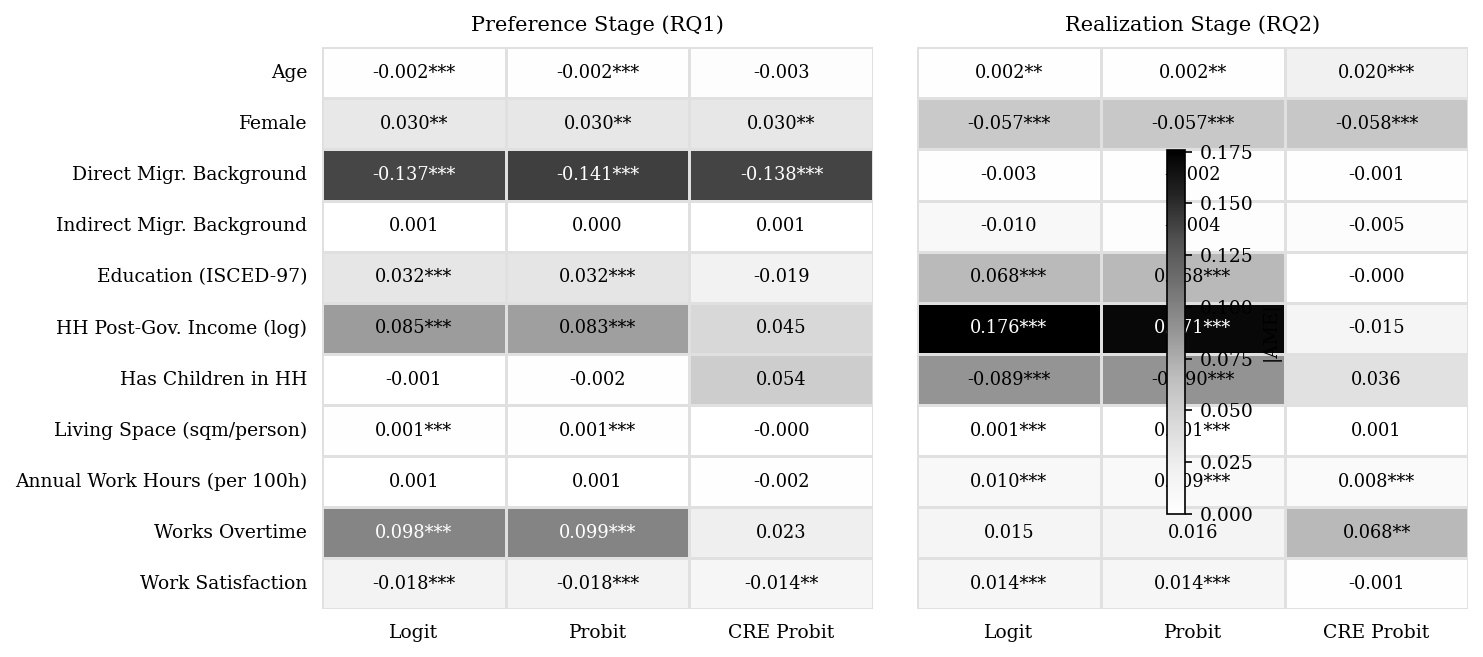
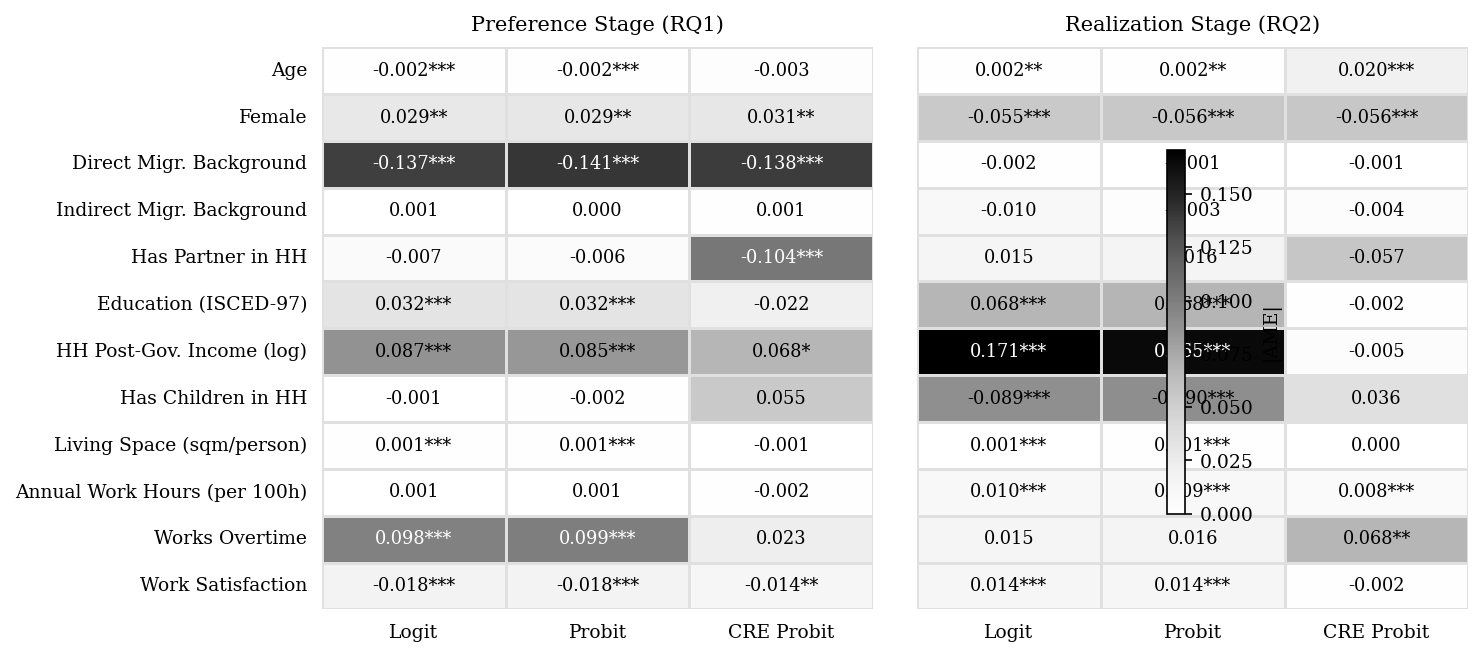
[chore] Cleaning up

diff --git a/src/scripts/panel_metadata.py b/src/scripts/panel_metadata.py
@@ -1,50 +1,46 @@
-"""Print panel metadata for the analysis sample (full-time employees, 2009-2014)."""
+"""Print panel metadata for the two analysis samples:
+1. Preference Stage (RQ1): determinant of willingness to WFH.
+2. Realization Stage (RQ2): determinants of actual WFH among those willing.
+"""
 
 import pandas as pd
 from src.data.utils import load_master
+from src.data.descriptives import build_analysis_sample, build_realization_sample
 
-df = load_master()
+def print_stats(name: str, df: pd.DataFrame, T: int):
+    N = df["pid"].nunique()
+    NT = len(df)
+    obs_per_person = df.groupby("pid").size()
+    
+    print(f"\n--- {name} ---")
+    print(f"  Total obs (NT)       : {NT:>8,}")
+    print(f"  Unique individuals N : {N:>8,}")
+    print(f"  Avg obs per person   : {NT/N:>8.2f}")
+    print(f"  Min obs per person   : {obs_per_person.min():>8}")
+    print(f"  Max obs per person   : {obs_per_person.max():>8}")
+    
+    wave_dist = obs_per_person.value_counts().sort_index()
+    print(f"  Wave participation:")
+    for n_waves, n_persons in wave_dist.items():
+        print(f"    {n_waves} wave(s): {n_persons:>5,} persons  ({n_persons/N*100:.1f}%)")
 
-# Analysis sample: valid WFH response only (mirrors binary_choice.py)
-analysis = df[df["plb0097"].isin([0, 1])].copy()
+    print(f"  Balanced ratio       : {NT/(N*T):.3f}")
 
-waves     = sorted(df["syear"].unique())
-T         = len(waves)
-N_raw     = df["pid"].nunique()
-NT_raw    = len(df)
-N_ana     = analysis["pid"].nunique()
-NT_ana    = len(analysis)
+def main():
+    raw = load_master()
+    rq1 = build_analysis_sample(raw)
+    rq2 = build_realization_sample(raw)
 
-obs_per_person = df.groupby("pid").size()
-obs_per_person_ana = analysis.groupby("pid").size()
+    waves = sorted(raw["syear"].unique())
+    T = len(waves)
 
-print("=" * 55)
-print("PANEL METADATA  (full-time employees, pgemplst == 1)")
-print("=" * 55)
+    print("=" * 60)
+    print("PANEL METADATA: ANALYSIS SUBSAMPLES (2009-2014)")
+    print("=" * 60)
+    print(f"Study period: {min(waves)}–{max(waves)} ({T} waves)")
 
-print(f"\nStudy period : {min(waves)}–{max(waves)}  ({T} waves)")
+    print_stats("Preference Stage (RQ1)", rq1, T)
+    print_stats("Realization Stage (RQ2)", rq2, T)
 
-print(f"\n--- Full master sample ---")
-print(f"  Total obs (NT)       : {NT_raw:>8,}")
-print(f"  Unique individuals N : {N_raw:>8,}")
-print(f"  Avg obs per person   : {NT_raw/N_raw:>8.2f}")
-print(f"  Min obs per person   : {obs_per_person.min():>8}")
-print(f"  Max obs per person   : {obs_per_person.max():>8}")
-print(f"  Obs per wave:")
-for yr, cnt in df["syear"].value_counts().sort_index().items():
-    share = cnt / NT_raw * 100
-    print(f"    {yr}: {cnt:>6,}  ({share:.1f}%)")
-
-print(f"\n--- Analysis sample (plb0097 ∈ {{0,1}}) ---")
-print(f"  Total obs (NT)       : {NT_ana:>8,}")
-print(f"  Unique individuals N : {N_ana:>8,}")
-print(f"  Avg obs per person   : {NT_ana/N_ana:>8.2f}")
-print(f"  Min obs per person   : {obs_per_person_ana.min():>8}")
-print(f"  Max obs per person   : {obs_per_person_ana.max():>8}")
-
-wave_dist = obs_per_person_ana.value_counts().sort_index()
-print(f"  Wave participation:")
-for n_waves, n_persons in wave_dist.items():
-    print(f"    {n_waves} wave(s): {n_persons:>5,} persons  ({n_persons/N_ana*100:.1f}%)")
-
-print(f"\n  Balanced if all had {T} obs: {N_ana * T:,}  (actual: {NT_ana:,}, ratio: {NT_ana/(N_ana*T):.3f})")
+if __name__ == "__main__":
+    main()

diff --git a/output/tables/preference_stage.tex b/output/tables/preference_stage.tex
@@ -1,7 +1,7 @@
 \begin{landscape}
 \begin{table}[htbp]
 \renewcommand{\arraystretch}{1.05}
-\footnotesize
+\scriptsize
 \centering
 \caption{Willingness to Work from Home: Pooled and Correlated Random Effects Models}
 \label{tab:preference_stage}
@@ -12,40 +12,42 @@
   & (1) & (2) & (3) & (4) & (5) & (6) \\
 \midrule
   \multicolumn{7}{@{}l}{\textbf{Demographic Characteristics}} \\
-    Age & $-0.0021^{***}$ & $-0.0019^{***}$ & $-0.0021^{***}$ & $-0.0019^{***}$ & $-0.0031$ & $-0.0030$ \\
-    \multicolumn{1}{l}{} & $(0.0007)$ & $(0.0007)$ & $(0.0006)$ & $(0.0007)$ & $(0.0034)$ & $(0.0034)$ \\
-    Female & $0.0300^{**}$ & $0.0287^{**}$ & $0.0304^{**}$ & $0.0292^{**}$ & $0.0304^{**}$ & $0.0293^{**}$ \\
-    \multicolumn{1}{l}{} & $(0.0134)$ & $(0.0138)$ & $(0.0134)$ & $(0.0138)$ & $(0.0135)$ & $(0.0139)$ \\
-    Direct Migr. Background & $-0.1374^{***}$ & $-0.1328^{***}$ & $-0.1414^{***}$ & $-0.1369^{***}$ & $-0.1383^{***}$ & $-0.1338^{***}$ \\
-    \multicolumn{1}{l}{} & $(0.0200)$ & $(0.0200)$ & $(0.0207)$ & $(0.0207)$ & $(0.0207)$ & $(0.0207)$ \\
-    Indirect Migr. Background & $0.0010$ & $0.0034$ & $0.0004$ & $0.0031$ & $0.0013$ & $0.0042$ \\
+    Age & $-0.0021^{***}$ & $-0.0019^{***}$ & $-0.0020^{***}$ & $-0.0019^{***}$ & $-0.0028$ & $-0.0027$ \\
+    \multicolumn{1}{l}{} & $(0.0007)$ & $(0.0007)$ & $(0.0007)$ & $(0.0007)$ & $(0.0034)$ & $(0.0034)$ \\
+    Female & $0.0288^{**}$ & $0.0277^{**}$ & $0.0294^{**}$ & $0.0286^{**}$ & $0.0305^{**}$ & $0.0298^{**}$ \\
+    \multicolumn{1}{l}{} & $(0.0135)$ & $(0.0138)$ & $(0.0135)$ & $(0.0138)$ & $(0.0135)$ & $(0.0139)$ \\
+    Direct Migr. Background & $-0.1371^{***}$ & $-0.1326^{***}$ & $-0.1412^{***}$ & $-0.1367^{***}$ & $-0.1383^{***}$ & $-0.1340^{***}$ \\
+    \multicolumn{1}{l}{} & $(0.0199)$ & $(0.0200)$ & $(0.0207)$ & $(0.0207)$ & $(0.0207)$ & $(0.0207)$ \\
+    Indirect Migr. Background & $0.0007$ & $0.0031$ & $0.0001$ & $0.0030$ & $0.0014$ & $0.0044$ \\
     \multicolumn{1}{l}{} & $(0.0318)$ & $(0.0314)$ & $(0.0318)$ & $(0.0314)$ & $(0.0318)$ & $(0.0314)$ \\
+    Has Partner in HH & $-0.0075$ & $-0.0057$ & $-0.0061$ & $-0.0040$ & $-0.1044^{***}$ & $-0.1037^{***}$ \\
+    \multicolumn{1}{l}{} & $(0.0146)$ & $(0.0146)$ & $(0.0146)$ & $(0.0145)$ & $(0.0391)$ & $(0.0391)$ \\
   \addlinespace[2pt]
   \multicolumn{7}{@{}l}{\textbf{Socioeconomic Determinants}} \\
-    Education (ISCED-97) & $0.0322^{***}$ & $0.0283^{***}$ & $0.0325^{***}$ & $0.0287^{***}$ & $-0.0194$ & $-0.0184$ \\
-    \multicolumn{1}{l}{} & $(0.0045)$ & $(0.0047)$ & $(0.0045)$ & $(0.0047)$ & $(0.0323)$ & $(0.0331)$ \\
-    HH Post-Gov. Income$^\dagger$ & $0.0848^{***}$ & $0.0786^{***}$ & $0.0831^{***}$ & $0.0767^{***}$ & $0.0452$ & $0.0438$ \\
-    \multicolumn{1}{l}{} & $(0.0137)$ & $(0.0139)$ & $(0.0135)$ & $(0.0137)$ & $(0.0395)$ & $(0.0396)$ \\
-    Has Children in HH & $-0.0007$ & $0.0066$ & $-0.0020$ & $0.0051$ & $0.0535$ & $0.0570$ \\
-    \multicolumn{1}{l}{} & $(0.0143)$ & $(0.0144)$ & $(0.0142)$ & $(0.0144)$ & $(0.0398)$ & $(0.0400)$ \\
-    Living Space (sqm/person) & $0.0015^{***}$ & $0.0015^{***}$ & $0.0014^{***}$ & $0.0014^{***}$ & $-0.0004$ & $-0.0003$ \\
-    \multicolumn{1}{l}{} & $(0.0004)$ & $(0.0004)$ & $(0.0003)$ & $(0.0004)$ & $(0.0009)$ & $(0.0009)$ \\
+    Education (ISCED-97) & $0.0322^{***}$ & $0.0283^{***}$ & $0.0325^{***}$ & $0.0287^{***}$ & $-0.0219$ & $-0.0205$ \\
+    \multicolumn{1}{l}{} & $(0.0045)$ & $(0.0047)$ & $(0.0045)$ & $(0.0047)$ & $(0.0326)$ & $(0.0334)$ \\
+    HH Post-Gov. Income$^\dagger$ & $0.0875^{***}$ & $0.0807^{***}$ & $0.0852^{***}$ & $0.0782^{***}$ & $0.0676^{*}$ & $0.0667^{*}$ \\
+    \multicolumn{1}{l}{} & $(0.0147)$ & $(0.0148)$ & $(0.0144)$ & $(0.0146)$ & $(0.0402)$ & $(0.0403)$ \\
+    Has Children in HH & $-0.0005$ & $0.0067$ & $-0.0018$ & $0.0052$ & $0.0547$ & $0.0586$ \\
+    \multicolumn{1}{l}{} & $(0.0143)$ & $(0.0144)$ & $(0.0142)$ & $(0.0144)$ & $(0.0397)$ & $(0.0399)$ \\
+    Living Space (sqm/person) & $0.0015^{***}$ & $0.0014^{***}$ & $0.0014^{***}$ & $0.0013^{***}$ & $-0.0009$ & $-0.0008$ \\
+    \multicolumn{1}{l}{} & $(0.0004)$ & $(0.0004)$ & $(0.0004)$ & $(0.0004)$ & $(0.0009)$ & $(0.0009)$ \\
   \addlinespace[2pt]
   \multicolumn{7}{@{}l}{\textbf{Labour Determinants}} \\
     Annual Work Hours (per 100h) & $0.0008$ & $0.0011$ & $0.0009$ & $0.0012$ & $-0.0016$ & $-0.0017$ \\
-    \multicolumn{1}{l}{} & $(0.0011)$ & $(0.0011)$ & $(0.0011)$ & $(0.0011)$ & $(0.0021)$ & $(0.0020)$ \\
-    Works Overtime & $0.0983^{***}$ & $0.1029^{***}$ & $0.0994^{***}$ & $0.1039^{***}$ & $0.0232$ & $0.0262$ \\
-    \multicolumn{1}{l}{} & $(0.0138)$ & $(0.0138)$ & $(0.0142)$ & $(0.0142)$ & $(0.0248)$ & $(0.0247)$ \\
-    Work Satisfaction & $-0.0177^{***}$ & $-0.0175^{***}$ & $-0.0177^{***}$ & $-0.0176^{***}$ & $-0.0136^{**}$ & $-0.0134^{**}$ \\
+    \multicolumn{1}{l}{} & $(0.0011)$ & $(0.0011)$ & $(0.0011)$ & $(0.0011)$ & $(0.0020)$ & $(0.0020)$ \\
+    Works Overtime & $0.0982^{***}$ & $0.1028^{***}$ & $0.0993^{***}$ & $0.1039^{***}$ & $0.0231$ & $0.0260$ \\
+    \multicolumn{1}{l}{} & $(0.0138)$ & $(0.0138)$ & $(0.0142)$ & $(0.0142)$ & $(0.0247)$ & $(0.0246)$ \\
+    Work Satisfaction & $-0.0177^{***}$ & $-0.0175^{***}$ & $-0.0177^{***}$ & $-0.0176^{***}$ & $-0.0139^{**}$ & $-0.0137^{**}$ \\
     \multicolumn{1}{l}{} & $(0.0029)$ & $(0.0029)$ & $(0.0029)$ & $(0.0029)$ & $(0.0055)$ & $(0.0055)$ \\
   \addlinespace[2pt]
   \midrule
   Sector FE & No & Yes & No & Yes & No & Yes \\
   \midrule
   $N$ (all models) & 7,539 &  &  &  &  &  \\
-  McFadden $R^2$ & 0.0457 & 0.0541 & 0.0453 & 0.0538 & 0.0470 & 0.0554 \\
-  Log-Likelihood & -4611.0 & -4570.3 & -4613.0 & -4572.2 & -4604.8 & -4564.1 \\
-  Mundlak means ($p$) & --- & --- & --- & --- & $0.001$ & $0.001$ \\
+  McFadden $R^2$ & 0.0458 & 0.0542 & 0.0453 & 0.0538 & 0.0474 & 0.0559 \\
+  Log-Likelihood & -4610.8 & -4570.2 & -4612.9 & -4572.1 & -4602.8 & -4562.0 \\
+  Mundlak means ($p$) & --- & --- & --- & --- & $< 0.001$ & $< 0.001$ \\
   \bottomrule
   \vspace{1.5pt}
 \end{tabular*}

diff --git a/output/tables/realization_stage.tex b/output/tables/realization_stage.tex
@@ -1,7 +1,7 @@
 \begin{landscape}
 \begin{table}[htbp]
 \renewcommand{\arraystretch}{1.05}
-\footnotesize
+\scriptsize
 \centering
 \caption{Realization of WFH Preferences: Access and Utilization among Willing Workers}
 \label{tab:realization_stage}
@@ -12,40 +12,42 @@
   & (1) & (2) & (3) & (4) & (5) & (6) \\
 \midrule
   \multicolumn{7}{@{}l}{\textbf{Demographic Characteristics}} \\
-    Age & $0.0017^{**}$ & $0.0014^{**}$ & $0.0016^{**}$ & $0.0014^{*}$ & $0.0204^{***}$ & $0.0212^{***}$ \\
-    \multicolumn{1}{l}{} & $(0.0007)$ & $(0.0007)$ & $(0.0007)$ & $(0.0007)$ & $(0.0040)$ & $(0.0040)$ \\
-    Female & $-0.0566^{***}$ & $-0.0694^{***}$ & $-0.0574^{***}$ & $-0.0684^{***}$ & $-0.0581^{***}$ & $-0.0689^{***}$ \\
-    \multicolumn{1}{l}{} & $(0.0154)$ & $(0.0151)$ & $(0.0153)$ & $(0.0150)$ & $(0.0154)$ & $(0.0151)$ \\
-    Direct Migr. Background & $-0.0027$ & $0.0011$ & $-0.0016$ & $0.0004$ & $-0.0015$ & $-0.0001$ \\
-    \multicolumn{1}{l}{} & $(0.0268)$ & $(0.0251)$ & $(0.0272)$ & $(0.0255)$ & $(0.0273)$ & $(0.0256)$ \\
-    Indirect Migr. Background & $-0.0101$ & $-0.0084$ & $-0.0036$ & $-0.0003$ & $-0.0045$ & $-0.0019$ \\
-    \multicolumn{1}{l}{} & $(0.0356)$ & $(0.0340)$ & $(0.0352)$ & $(0.0339)$ & $(0.0351)$ & $(0.0339)$ \\
+    Age & $0.0016^{**}$ & $0.0014^{*}$ & $0.0015^{**}$ & $0.0014^{*}$ & $0.0205^{***}$ & $0.0213^{***}$ \\
+    \multicolumn{1}{l}{} & $(0.0008)$ & $(0.0007)$ & $(0.0008)$ & $(0.0007)$ & $(0.0040)$ & $(0.0040)$ \\
+    Female & $-0.0552^{***}$ & $-0.0683^{***}$ & $-0.0556^{***}$ & $-0.0669^{***}$ & $-0.0561^{***}$ & $-0.0672^{***}$ \\
+    \multicolumn{1}{l}{} & $(0.0155)$ & $(0.0152)$ & $(0.0155)$ & $(0.0151)$ & $(0.0155)$ & $(0.0152)$ \\
+    Direct Migr. Background & $-0.0024$ & $0.0013$ & $-0.0011$ & $0.0007$ & $-0.0009$ & $0.0003$ \\
+    \multicolumn{1}{l}{} & $(0.0269)$ & $(0.0251)$ & $(0.0272)$ & $(0.0255)$ & $(0.0273)$ & $(0.0256)$ \\
+    Indirect Migr. Background & $-0.0096$ & $-0.0080$ & $-0.0032$ & $0.0000$ & $-0.0042$ & $-0.0016$ \\
+    \multicolumn{1}{l}{} & $(0.0356)$ & $(0.0341)$ & $(0.0352)$ & $(0.0340)$ & $(0.0351)$ & $(0.0340)$ \\
+    Has Partner in HH & $0.0146$ & $0.0113$ & $0.0162$ & $0.0133$ & $-0.0567$ & $-0.0564$ \\
+    \multicolumn{1}{l}{} & $(0.0166)$ & $(0.0158)$ & $(0.0166)$ & $(0.0158)$ & $(0.0500)$ & $(0.0494)$ \\
   \addlinespace[2pt]
   \multicolumn{7}{@{}l}{\textbf{Socioeconomic Determinants}} \\
-    Education (ISCED-97) & $0.0675^{***}$ & $0.0499^{***}$ & $0.0682^{***}$ & $0.0504^{***}$ & $-0.0003$ & $-0.0189$ \\
-    \multicolumn{1}{l}{} & $(0.0051)$ & $(0.0051)$ & $(0.0051)$ & $(0.0052)$ & $(0.0625)$ & $(0.0662)$ \\
-    HH Post-Gov. Income$^\dagger$ & $0.1758^{***}$ & $0.1872^{***}$ & $0.1706^{***}$ & $0.1831^{***}$ & $-0.0150$ & $-0.0092$ \\
-    \multicolumn{1}{l}{} & $(0.0163)$ & $(0.0157)$ & $(0.0161)$ & $(0.0157)$ & $(0.0565)$ & $(0.0541)$ \\
-    Has Children in HH & $-0.0891^{***}$ & $-0.0698^{***}$ & $-0.0897^{***}$ & $-0.0704^{***}$ & $0.0362$ & $0.0427$ \\
+    Education (ISCED-97) & $0.0676^{***}$ & $0.0500^{***}$ & $0.0683^{***}$ & $0.0505^{***}$ & $-0.0024$ & $-0.0204$ \\
+    \multicolumn{1}{l}{} & $(0.0051)$ & $(0.0052)$ & $(0.0051)$ & $(0.0052)$ & $(0.0636)$ & $(0.0674)$ \\
+    HH Post-Gov. Income$^\dagger$ & $0.1706^{***}$ & $0.1832^{***}$ & $0.1648^{***}$ & $0.1783^{***}$ & $-0.0049$ & $0.0009$ \\
+    \multicolumn{1}{l}{} & $(0.0173)$ & $(0.0167)$ & $(0.0172)$ & $(0.0167)$ & $(0.0568)$ & $(0.0542)$ \\
+    Has Children in HH & $-0.0895^{***}$ & $-0.0701^{***}$ & $-0.0901^{***}$ & $-0.0708^{***}$ & $0.0362$ & $0.0429$ \\
     \multicolumn{1}{l}{} & $(0.0160)$ & $(0.0153)$ & $(0.0159)$ & $(0.0153)$ & $(0.0487)$ & $(0.0498)$ \\
-    Living Space (sqm/person) & $0.0013^{***}$ & $0.0015^{***}$ & $0.0013^{***}$ & $0.0015^{***}$ & $0.0006$ & $0.0007$ \\
+    Living Space (sqm/person) & $0.0013^{***}$ & $0.0015^{***}$ & $0.0014^{***}$ & $0.0016^{***}$ & $0.0003$ & $0.0005$ \\
     \multicolumn{1}{l}{} & $(0.0003)$ & $(0.0003)$ & $(0.0003)$ & $(0.0003)$ & $(0.0010)$ & $(0.0010)$ \\
   \addlinespace[2pt]
   \multicolumn{7}{@{}l}{\textbf{Labour Determinants}} \\
-    Annual Work Hours (per 100h) & $0.0099^{***}$ & $0.0088^{***}$ & $0.0093^{***}$ & $0.0084^{***}$ & $0.0076^{***}$ & $0.0071^{***}$ \\
+    Annual Work Hours (per 100h) & $0.0099^{***}$ & $0.0088^{***}$ & $0.0093^{***}$ & $0.0085^{***}$ & $0.0076^{***}$ & $0.0072^{***}$ \\
     \multicolumn{1}{l}{} & $(0.0014)$ & $(0.0013)$ & $(0.0014)$ & $(0.0013)$ & $(0.0027)$ & $(0.0027)$ \\
-    Works Overtime & $0.0150$ & $0.0251$ & $0.0161$ & $0.0248$ & $0.0680^{**}$ & $0.0752^{**}$ \\
+    Works Overtime & $0.0152$ & $0.0252$ & $0.0163$ & $0.0250$ & $0.0678^{**}$ & $0.0749^{**}$ \\
     \multicolumn{1}{l}{} & $(0.0192)$ & $(0.0185)$ & $(0.0192)$ & $(0.0185)$ & $(0.0312)$ & $(0.0331)$ \\
-    Work Satisfaction & $0.0138^{***}$ & $0.0120^{***}$ & $0.0135^{***}$ & $0.0118^{***}$ & $-0.0015$ & $-0.0006$ \\
+    Work Satisfaction & $0.0138^{***}$ & $0.0120^{***}$ & $0.0136^{***}$ & $0.0118^{***}$ & $-0.0018$ & $-0.0010$ \\
     \multicolumn{1}{l}{} & $(0.0035)$ & $(0.0033)$ & $(0.0034)$ & $(0.0033)$ & $(0.0062)$ & $(0.0062)$ \\
   \addlinespace[2pt]
   \midrule
   Sector FE & No & Yes & No & Yes & No & Yes \\
   \midrule
   $N$ (all models) & 4,975 &  &  &  &  &  \\
-  McFadden $R^2$ & 0.1297 & 0.1837 & 0.1284 & 0.1824 & 0.1324 & 0.1866 \\
-  Log-Likelihood & -2838.9 & -2662.9 & -2843.1 & -2667.2 & -2830.3 & -2653.5 \\
-  Mundlak means ($p$) & --- & --- & --- & --- & $0.000$ & $0.000$ \\
+  McFadden $R^2$ & 0.1298 & 0.1838 & 0.1286 & 0.1825 & 0.1327 & 0.1868 \\
+  Log-Likelihood & -2838.5 & -2662.6 & -2842.6 & -2666.9 & -2829.2 & -2652.6 \\
+  Mundlak means ($p$) & --- & --- & --- & --- & $< 0.001$ & $< 0.001$ \\
   \bottomrule
   \vspace{1.5pt}
 \end{tabular*}

diff --git a/output/tables/model_specifications.tex b/output/tables/model_specifications.tex
@@ -1,0 +1,29 @@
+\begin{table}[htbp]
+\renewcommand{\arraystretch}{1.3}
+\centering
+\caption{Summary of Model Specifications and Sampling Logic}
+\label{tab:model_specifications}
+\small
+\begin{tabular*}{\linewidth}{ @{\extracolsep{\fill}} @{}llcp{7.5cm}@{} }
+\toprule
+Model ID & Estimator & Sector FE & Functional Form (Latent Variable $y_{it}^*$) \\
+\midrule
+(1) & Logit  & No  & $\mathbf{x}_{it}^{\top}\beta + \epsilon_{it}$ \\
+(2) & Logit  & Yes & $\mathbf{x}_{it}^{\top}\beta + \gamma_s + \epsilon_{it}$ \\
+(3) & Probit & No  & $\mathbf{x}_{it}^{\top}\beta + \epsilon_{it}$ \\
+(4) & Probit & Yes & $\mathbf{x}_{it}^{\top}\beta + \gamma_s + \epsilon_{it}$ \\
+(5) & CRE Probit & No  & $\mathbf{x}_{it}^{\top}\beta + \bar{\mathbf{x}}_i^{\top}\pi + \epsilon_{it}$ \\
+(6) & CRE Probit & Yes & $\mathbf{x}_{it}^{\top}\beta + \bar{\mathbf{x}}_i^{\top}\pi + \gamma_s + \epsilon_{it}$ \\
+\midrule
+\multicolumn{4}{@{}l}{\textbf{Application to Research Questions}} \\
+\textbf{Stage 1 (RQ1)} & \multicolumn{3}{p{11.5cm}@{}}{Outcome: \textit{Preference} ($y_{it}=1$ if wants WFH). Sample: Full-time employees, excluding those reporting structural impossibility.} \\
+\textbf{Stage 2 (RQ2)} & \multicolumn{3}{p{11.5cm}@{}}{Outcome: \textit{Realization} ($y_{it}=1$ if actually WFH). Sample: Full-time employees who stated a positive preference in Stage 1 ($y_{it}^{RQ1}=1$).} \\
+\bottomrule
+\vspace{1.5pt}
+\end{tabular*}
+\smallskip
+\begin{minipage}{\linewidth}
+\small
+\textbf{Note:} $\mathbf{x}_{it}$ is the vector of all control variables. $\bar{\mathbf{x}}_i$ denotes individual time-means of time-varying variables (Mundlak correction), recomputed for each specific subsample. $\gamma_s$ represents sector fixed effects (NACE 1--15).
+\end{minipage}
+\end{table}

diff --git a/src/models/binary_choice_common.py b/src/models/binary_choice_common.py
@@ -13,7 +13,7 @@ import seaborn as sns
 from src.data.utils import load_master
 
 CONTROLS = [
-    "age", "sex", "migback_direct", "migback_indirect",
+    "age", "sex", "migback_direct", "migback_indirect", "has_partner",
     "pgisced97", "log_income", "has_children", "sqm_per_head",
     "work_hrs_100", "plb0193_h", "plh0173",
 ]
@@ -21,7 +21,7 @@ CONTROLS = [
 # Time-varying only — sex and migback are constant within person so X_{i·} = X_{it},
 # making them uninformative in the Mundlak auxiliary regression α_i = X_{i·}π + w_i.
 TIME_VARYING = [
-    "age", "pgisced97", "log_income", "has_children",
+    "age", "has_partner", "pgisced97", "log_income", "has_children",
     "sqm_per_head", "work_hrs_100", "plb0193_h", "plh0173",
 ]
 
@@ -31,6 +31,7 @@ LABELS: dict[str, str] = {
     "sex":                 "Female",
     "migback_direct":      "Direct Migr. Background",
     "migback_indirect":    "Indirect Migr. Background",
+    "has_partner":         "Has Partner in HH",
     "pgisced97":           "Education (ISCED-97)",
     "log_income":          r"HH Post-Gov. Income$^\dagger$",
     "has_children":        "Has Children in HH",
@@ -40,6 +41,7 @@ LABELS: dict[str, str] = {
     "plh0173":             "Work Satisfaction",
     # Mundlak means
     "age_mean":            r"$\bar{\text{Age}}$",
+    "has_partner_mean":    r"$\bar{\text{Partner Status}}$",
     "pgisced97_mean":      r"$\bar{\text{Education}}$",
     "log_income_mean":     r"$\overline{\text{HH Income}}^\dagger$",
     "has_children_mean":   r"$\bar{\text{Has Children}}$",
@@ -50,7 +52,7 @@ LABELS: dict[str, str] = {
 }
 
 GROUPS = [
-    ("Demographic Characteristics", ["age", "sex", "migback_direct", "migback_indirect"]),
+    ("Demographic Characteristics", ["age", "sex", "migback_direct", "migback_indirect", "has_partner"]),
     ("Socioeconomic Determinants",  ["pgisced97", "log_income", "has_children", "sqm_per_head"]),
     ("Labour Determinants",         ["work_hrs_100", "plb0193_h", "plh0173"]),
 ]
@@ -60,6 +62,7 @@ PLOT_LABELS = {
     "sex":              "Female",
     "migback_direct":   "Direct Migr. Background",
     "migback_indirect": "Indirect Migr. Background",
+    "has_partner":      "Has Partner in HH",
     "pgisced97":        "Education (ISCED-97)",
     "log_income":       "HH Post-Gov. Income (log)",
     "has_children":     "Has Children in HH",
@@ -78,6 +81,7 @@ def prep_raw() -> pd.DataFrame:
     df["log_income"]       = np.log(df["i11102"].clip(lower=1))
     df["migback_direct"]   = (df["migback"] == 2).where(df["migback"].notna()).astype("float")
     df["migback_indirect"] = (df["migback"] == 3).where(df["migback"].notna()).astype("float")
+    df["has_partner"]      = df["partner"].isin([1, 2, 3, 4]).astype("float").where(df["partner"].notna())
     df["sector"]           = df["sector"].astype("float")
     return df
 
@@ -152,6 +156,8 @@ def _mundlak_wald_p(res) -> str:
     for row_i, col_i in enumerate(idx):
         r[row_i, col_i] = 1.0
     p = float(res.wald_test(r, use_f=False, scalar=False).pvalue)
+    if p < 0.001:
+        return r"$< 0.001$"
     return f"${p:.3f}$"
 
 
@@ -173,7 +179,7 @@ def save_latex_table(models: list, path: str, caption: str, label: str) -> None:
         r"\begin{landscape}",
         r"\begin{table}[htbp]",
         r"\renewcommand{\arraystretch}{1.05}",
-        r"\footnotesize",
+        r"\scriptsize",
         r"\centering",
         rf"\caption{{{caption}}}",
         rf"\label{{{label}}}",

diff --git a/src/data/descriptives.py b/src/data/descriptives.py
@@ -87,7 +87,7 @@ def build_main_table(
         r"\centering",
         rf"\caption{{Descriptive Statistics: Preference and Realization Samples ({period_label})}}",
         r"\label{tab:descriptives_main}",
-        r"\footnotesize",
+        r"\scriptsize",
         rf"\begin{{tabular*}}{{\linewidth}}{{ @{{\extracolsep{{\fill}}}} {col_spec} @{{}} }}",
         r"\toprule",
         r" & & & \multicolumn{2}{c}{Preference Stage} & \multicolumn{2}{c}{Realization Stage} \\",
@@ -339,12 +339,15 @@ def _add_derived_cols(df):
     df["log_income"]       = np.log(df["i11102"].clip(lower=1))
     df["migback_direct"]   = (df["migback"] == 2).where(df["migback"].notna()).astype("float")
     df["migback_indirect"] = (df["migback"] == 3).where(df["migback"].notna()).astype("float")
+    # Partner in HH: values 1 (spouse/registered) and 2 (partner) are certain.
+    # 3 (probably spouse) and 4 (probably partner) are also included.
+    df["has_partner"]      = df["partner"].isin([1, 2, 3, 4]).astype("float").where(df["partner"].notna())
     return df
 
 
 _MODEL_COLS_BASE = [
     "pid", "syear",
-    "age", "sex", "migback_direct", "migback_indirect",
+    "age", "sex", "migback_direct", "migback_indirect", "has_partner",
     "pgisced97", "log_income", "has_children", "sqm_per_head",
     "work_hrs_100", "plb0193_h", "plh0173", "sector",
 ]

diff --git a/output/tables/descriptives_main.tex b/output/tables/descriptives_main.tex
@@ -4,7 +4,7 @@
 \centering
 \caption{Descriptive Statistics: Preference and Realization Samples (2009--2014)}
 \label{tab:descriptives_main}
-\footnotesize
+\scriptsize
 \begin{tabular*}{\linewidth}{ @{\extracolsep{\fill}} @{}l p{4.5cm} p{4.5cm} rrrr @{} }
 \toprule
  & & & \multicolumn{2}{c}{Preference Stage} & \multicolumn{2}{c}{Realization Stage} \\
@@ -22,6 +22,7 @@ Variable & Label & Definition/Scale & Mean & SD & Mean & SD \\
 \multicolumn{7}{@{}l}{\textbf{Demographic Characteristics}} \\
 \texttt{age} & Age & years & 42.83 & 9.74 & 42.89 & 9.69 \\
 \texttt{sex} & Gender & 1=M, 2=F & 0:66\% / 1:34\% & -- & 0:65\% / 1:35\% & -- \\
+\texttt{partner} & Status Of Partnership & 1--5 & -- & -- & -- & -- \\
 \texttt{migback} & Migr. Background & 1=None, 2=Direct, 3=Indirect & 1:87\% / 2:9\% / 3:4\% & -- & 1:90\% / 2:6\% / 3:4\% & -- \\
 \texttt{d11107} & Num. children in HH & count & 1.05 & 1.19 & 0.98 & 1.15 \\
 \addlinespace

diff --git a/derivations/mundlak_cre_probit.md b/derivations/mundlak_cre_probit.md
@@ -32,10 +32,10 @@ $$
 where $X_{i\cdot} = T^{-1}\sum_{t=1}^T X_{it}$ is the vector of individual time-means, $\pi$ is the vector of projection coefficients, and $w_i$ is the projection residual. The projection coefficient is defined as the population OLS minimiser:
 
 $$
-\pi \equiv \bigl[E(X_{i\cdot}' X_{i\cdot})\bigr]^{-1} E(X_{i\cdot}' \alpha_i)
+\pi \equiv \bigl[E(X_{i\cdot}^{\top} X_{i\cdot})\bigr]^{-1} E(X_{i\cdot}^{\top} \alpha_i)
 $$
 
-By the normal equations of the linear projection, $E[X_{i\cdot}' w_i] = 0$ holds by construction — no distributional assumption on $\alpha_i$ is required. Mundlak (p. 72) notes that $\pi = 0$ if and only if the effects are uncorrelated with the regressors, i.e. the RE assumption holds.
+By the normal equations of the linear projection, $E[X_{i\cdot}^{\top} w_i] = 0$ holds by construction — no distributional assumption on $\alpha_i$ is required. Mundlak (p. 72) notes that $\pi = 0$ if and only if the effects are uncorrelated with the regressors, i.e. the RE assumption holds.
 
 ---
 